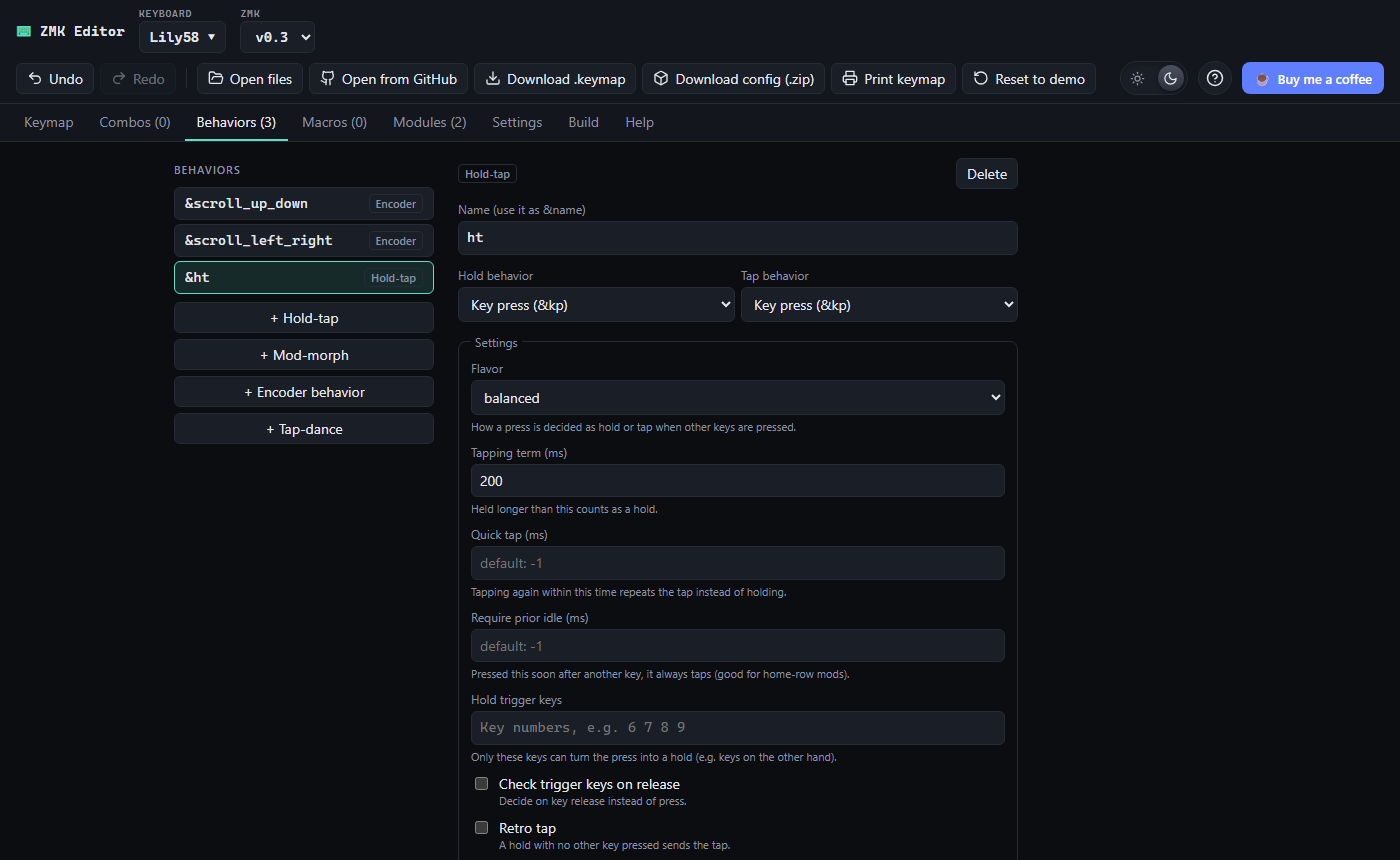
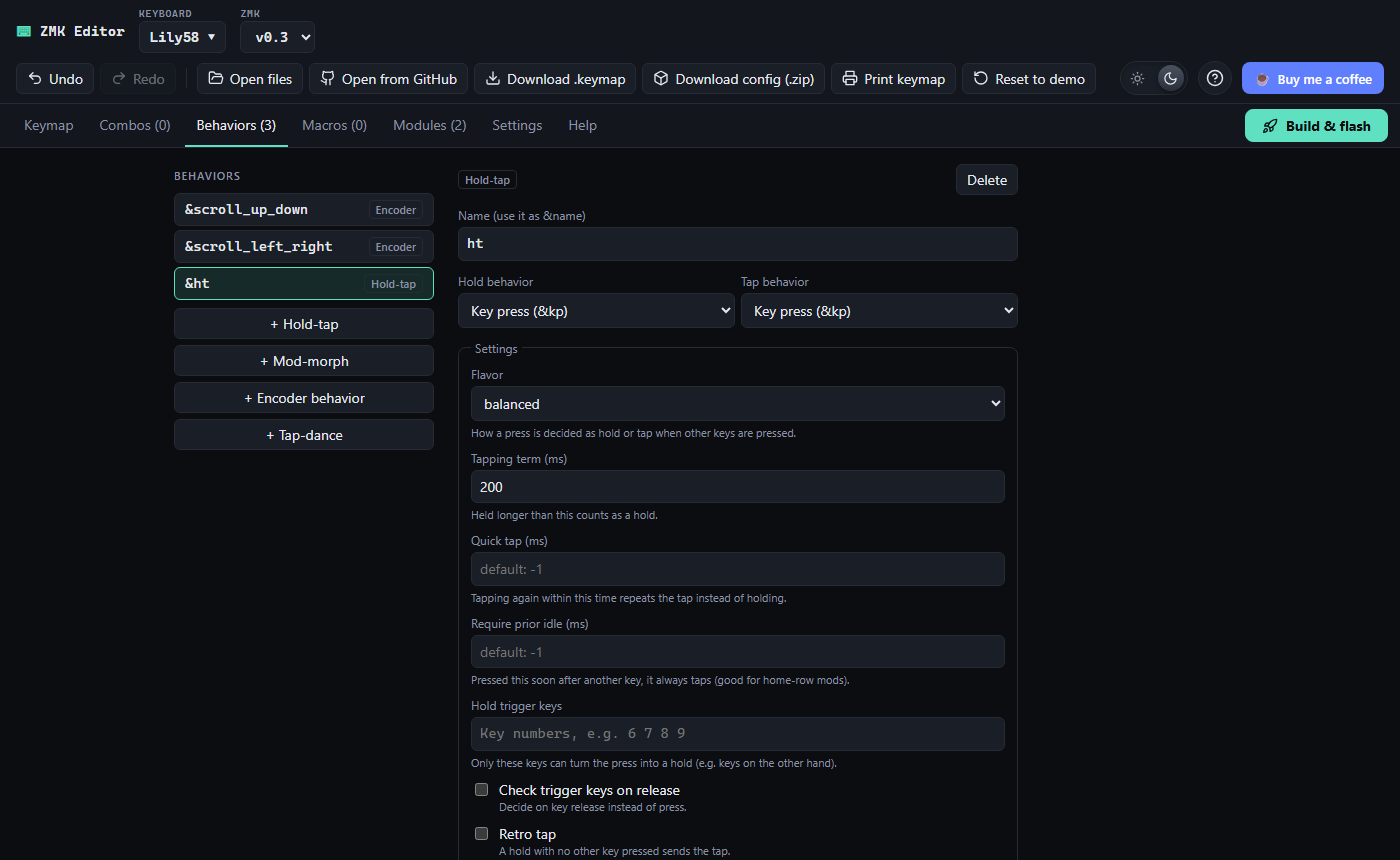
Set the Build & flash tab apart
The last step gets its own spot at the far right of the tab bar, filled in
the accent colour with a rocket icon and named for what happens there:
'Build & flash'. Help, README and messages that sent people to the 'Build
tab' use the new name.

diff --git a/src/ui/help/sections/start.tsx b/src/ui/help/sections/start.tsx
@@ -20,13 +20,13 @@ export const START: HelpSection[] = [
             </li>
             <li>
               To use your own keyboard, either open your files with <Ui>Open files</Ui> in the top bar, connect your
-              repository on the <Ui>Build</Ui> tab and choose <Ui>Load config from repo</Ui>, or start from ZMK's default
+              repository on the <Ui>Build &amp; flash</Ui> tab and choose <Ui>Load config from repo</Ui>, or start from ZMK's default
               keymap for your keyboard on the Keyboard page (the keyboard button at the top left). To look at someone
               else's public config, use <Ui>Open from GitHub</Ui>; see <See to="open-github">below</See>.
             </li>
             <li>Edit the keymap. Everything can be undone with Ctrl+Z.</li>
             <li>
-              On the <Ui>Build</Ui> tab, review the changes and press <Ui>Commit &amp; build</Ui>. When the build is done,
+              On the <Ui>Build &amp; flash</Ui> tab, review the changes and press <Ui>Commit &amp; build</Ui>. When the build is done,
               download the firmware or write it straight onto the keyboard. See{' '}
               <See to="building">Building and flashing</See>.
             </li>
@@ -55,7 +55,7 @@ export const START: HelpSection[] = [
             <Ui>Open from GitHub</Ui> in the top bar opens any public <code>zmk-config</code> repository without logging
             in: paste <code>owner/repo</code> or its GitHub link (a link to a branch, <code>…/tree/branch</code>, opens
             that branch), and optionally a <Ui>Branch</Ui>. It replaces the editor's contents, after asking. It only
-            reads: to commit your changes, connect to your own repository on the Build tab. GitHub allows about 60
+            reads: to commit your changes, connect to your own repository on the Build &amp; flash tab. GitHub allows about 60
             requests an hour without logging in, so opening many repositories in a row can hit that limit for a while.
           </p>
         </Sub>
@@ -71,7 +71,7 @@ export const START: HelpSection[] = [
           <ul>
             <li>
               <strong>Your config</strong> is saved in this browser after every change, so a reload keeps your work. It is
-              only in your GitHub repository after you commit on the Build tab.
+              only in your GitHub repository after you commit on the Build &amp; flash tab.
             </li>
             <li>
               <strong>Preferences</strong> (theme, recently used palette keys, layout variants, Unicode languages) are

diff --git a/src/core/github/publicRepo.ts b/src/core/github/publicRepo.ts
@@ -58,13 +58,13 @@ export async function openPublicRepo(client: GitHubClient, input: RepoInput): Pr
     if (!(error instanceof GitHubError)) throw error;
     if (error.status === 403 || error.status === 429) {
       throw new Error(
-        'GitHub allows 60 requests an hour without logging in, and that limit is used up. Try again later, or connect on the Build tab.',
+        'GitHub allows 60 requests an hour without logging in, and that limit is used up. Try again later, or connect on the Build & flash tab.',
         { cause: error },
       );
     }
     if (error.status === 404 || error.status === 401) {
       const what = input.branch ? `${name} with a branch ${input.branch}` : name;
-      throw new Error(`Couldn't find ${what}. Check the name; a private repository needs you to connect on the Build tab.`, {
+      throw new Error(`Couldn't find ${what}. Check the name; a private repository needs you to connect on the Build & flash tab.`, {
         cause: error,
       });
     }

diff --git a/src/ui/App.tsx b/src/ui/App.tsx
@@ -129,7 +129,6 @@ export function App() {
     { id: 'macros', label: `Macros (${macroCount})` },
     { id: 'modules', label: `Modules (${config.west.modules.length})` },
     { id: 'settings', label: 'Settings' },
-    { id: 'build', label: 'Build' },
     { id: 'help', label: 'Help' },
   ];
 
@@ -229,6 +228,17 @@ export function App() {
               {t.label}
             </button>
           ))}
+          {/* The last step, set apart: where you go once the keymap is done. */}
+          <button
+            type="button"
+            className={`viewtab build-tab${view === 'build' ? ' active' : ''}`}
+            aria-current={view === 'build' ? 'page' : undefined}
+            title="Commit to GitHub, build the firmware and flash it"
+            onClick={() => setView('build')}
+          >
+            <Icon name="rocket" />
+            Build &amp; flash
+          </button>
         </nav>
         {state.notice && (
           <div className="notice" role="status">

diff --git a/src/ui/Login.test.tsx b/src/ui/Login.test.tsx
@@ -44,7 +44,7 @@ describe('Log in with GitHub', () => {
     const user = userEvent.setup();
     const go = vi.spyOn(navigation, 'go').mockImplementation(() => undefined);
     render(<App />);
-    await user.click(screen.getByRole('button', { name: 'Build' }));
+    await user.click(screen.getByRole('button', { name: 'Build & flash' }));
     await user.click(screen.getByRole('button', { name: 'Log in with GitHub' }));
     await vi.waitFor(() => expect(go).toHaveBeenCalled());
     const url = new URL(String(go.mock.calls[0]?.[0]));
@@ -90,7 +90,7 @@ describe('Log in with GitHub', () => {
   it('keeps the token form as a fallback', async () => {
     const user = userEvent.setup();
     render(<App />);
-    await user.click(screen.getByRole('button', { name: 'Build' }));
+    await user.click(screen.getByRole('button', { name: 'Build & flash' }));
     await user.click(screen.getByText('Use a token instead'));
     expect(screen.getByLabelText('Token')).toBeTruthy();
   });

diff --git a/src/ui/components/Toolbar.tsx b/src/ui/components/Toolbar.tsx
@@ -75,7 +75,7 @@ export function Toolbar({ config, canUndo, canRedo, locked, onPrint, dispatch }:
       const { config: next, warnings } = importConfig(repo.files);
       if (next.keymap.layers.length === 0) throw new Error("That keymap has no layers, so it can't be edited here.");
       dispatch({ type: 'load', config: next, warnings });
-      dispatch({ type: 'notify', notice: `Opened ${name}. To commit changes, connect to your own repository on the Build tab.` });
+      dispatch({ type: 'notify', notice: `Opened ${name}. To commit changes, connect to your own repository on the Build & flash tab.` });
     } catch (error) {
       window.alert(error instanceof Error ? error.message : String(error));
     }

diff --git a/src/ui/styles.css b/src/ui/styles.css
@@ -1097,6 +1097,30 @@ select {
   border-bottom-color: var(--accent);
 }
 
+/* Build & flash: the last step, pushed to the far end and filled so it can't be missed. */
+.viewtab.build-tab {
+  display: inline-flex;
+  align-items: center;
+  gap: 8px;
+  align-self: center;
+  margin: 5px 0 5px auto;
+  padding: 6px 16px;
+  border: 1px solid var(--accent);
+  border-radius: 8px;
+  background: var(--accent);
+  color: var(--accent-contrast);
+  font-weight: 700;
+}
+
+.viewtab.build-tab:hover {
+  color: var(--accent-contrast);
+  filter: brightness(1.08);
+}
+
+.viewtab.build-tab.active {
+  box-shadow: 0 0 0 3px var(--accent-soft);
+}
+
 .workspace.single {
   display: block;
   overflow: auto;

diff --git a/src/ui/help/sections/reference.tsx b/src/ui/help/sections/reference.tsx
@@ -58,7 +58,7 @@ export const REFERENCE: HelpSection[] = [
         </dd>
         <dt>The build failed.</dt>
         <dd>
-          Open the build on GitHub (the link on the Build tab) and look for the first error. Common causes: a module
+          Open the build on GitHub (the link on the Build &amp; flash tab) and look for the first error. Common causes: a module
           pinned to a different ZMK version (the Modules tab warns about it), settings for hardware the keyboard doesn't
           have (the Settings tab warns about it), or a hand-edited file with a typo.
         </dd>

diff --git a/src/ui/components/Icon.tsx b/src/ui/components/Icon.tsx
@@ -36,6 +36,12 @@ const PATHS = {
     'm19.07 4.93-1.41 1.41',
   ],
   moon: ['M12 3a6 6 0 0 0 9 9 9 9 0 1 1-9-9Z'],
+  rocket: [
+    'M4.5 16.5c-1.5 1.26-2 5-2 5s3.74-.5 5-2c.71-.84.7-2.13-.09-2.91a2.18 2.18 0 0 0-2.91-.09z',
+    'm12 15-3-3a22 22 0 0 1 2-3.95A12.88 12.88 0 0 1 22 2c0 2.72-.78 7.5-6 11a22.35 22.35 0 0 1-4 2z',
+    'M9 12H4s.55-3.03 2-4c1.62-1.08 5 0 5 0',
+    'M12 15v5s3.03-.55 4-2c1.08-1.62 0-5 0-5',
+  ],
   help: ['M12 22a10 10 0 1 0 0-20 10 10 0 0 0 0 20Z', 'M9.09 9a3 3 0 0 1 5.83 1c0 2-3 3-3 3', 'M12 17h.01'],
 } as const;
 

diff --git a/src/ui/help/sections/config.tsx b/src/ui/help/sections/config.tsx
@@ -61,7 +61,7 @@ export const CONFIG: HelpSection[] = [
     body: (
       <>
         <p>
-          The <Ui>Build</Ui> tab commits your config to GitHub, where GitHub Actions builds the firmware. You need a{' '}
+          The <Ui>Build &amp; flash</Ui> tab commits your config to GitHub, where GitHub Actions builds the firmware. You need a{' '}
           <code>zmk-config</code> repository on GitHub, for example one made from ZMK's template.
         </p>
         <Sub id="connect" title="Connecting to GitHub">

diff --git a/src/ui/Build.test.tsx b/src/ui/Build.test.tsx
@@ -41,7 +41,7 @@ afterEach(() => {
 });
 
 async function connect(user: ReturnType<typeof userEvent.setup>, token = 'good-token') {
-  await user.click(screen.getByRole('button', { name: 'Build' }));
+  await user.click(screen.getByRole('button', { name: 'Build & flash' }));
   await user.type(screen.getByLabelText('Token'), token);
   await user.type(screen.getByLabelText('Repository'), 'me/zmk-config');
   await user.click(screen.getByRole('button', { name: 'Connect' }));

diff --git a/src/core/github/publicRepo.test.ts b/src/core/github/publicRepo.test.ts
@@ -48,7 +48,7 @@ describe('openPublicRepo', () => {
   it('explains a missing or private repo', async () => {
     const { client } = setup();
     await expect(openPublicRepo(client, { owner: 'me', repo: 'nope' })).rejects.toThrow(
-      /Couldn't find me\/nope\. Check the name; a private repository needs you to connect on the Build tab/,
+      /Couldn't find me\/nope\. Check the name; a private repository needs you to connect on the Build & flash tab/,
     );
   });
 

diff --git a/src/ui/components/OpenFromGitHub.tsx b/src/ui/components/OpenFromGitHub.tsx
@@ -71,7 +71,7 @@ export function OpenFromGitHub({ disabled, title, onOpened }: OpenFromGitHubProp
         >
           <p className="muted small">
             Open a public zmk-config repository, no login needed. To commit changes, connect to your own repository on the
-            Build tab.
+            Build &amp; flash tab.
           </p>
           <label className="field">
             <span className="field-label">Repository</span>
